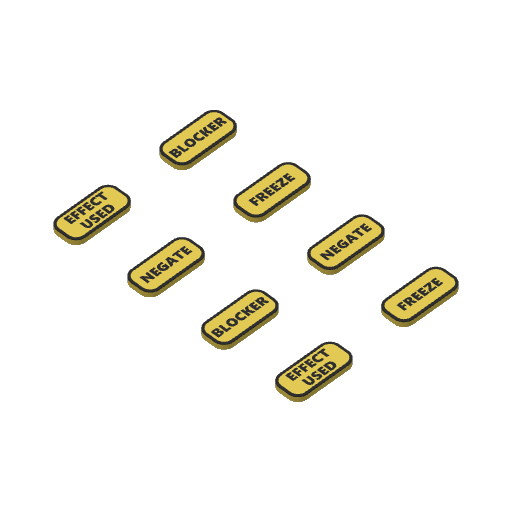
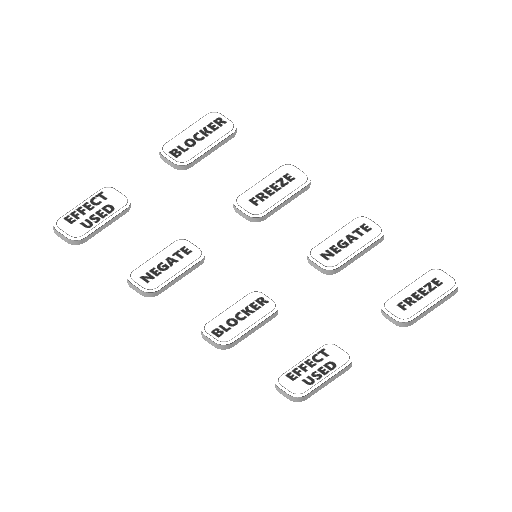
fix: tint only deck box model parts

diff --git a/tool/build_deck_box_preview_assets.dart b/tool/build_deck_box_preview_assets.dart
@@ -20,6 +20,7 @@ void main(List<String> arguments) {
     return;
   }
 
+  image.Image? tokenPreview;
   for (var plate = 1; plate <= 7; plate++) {
     final source = File('${sourceDirectory.path}/plate_$plate.png');
     if (!source.existsSync()) {
@@ -27,16 +28,20 @@ void main(List<String> arguments) {
       exitCode = 66;
       return;
     }
-    source.copySync('${outputDirectory.path}/plate_$plate.png');
+    final decoded = image.decodePng(source.readAsBytesSync());
+    if (decoded == null) {
+      stderr.writeln('Nao foi possivel decodificar ${source.path}.');
+      exitCode = 65;
+      return;
+    }
+    final transparent = _removeBlackBackground(decoded);
+    File(
+      '${outputDirectory.path}/plate_$plate.png',
+    ).writeAsBytesSync(image.encodePng(_grayscaleForTint(transparent)));
+    if (plate == 3) tokenPreview = transparent;
   }
 
-  final tokenSource = File('${sourceDirectory.path}/plate_3.png');
-  final decoded = image.decodePng(tokenSource.readAsBytesSync());
-  if (decoded == null) {
-    stderr.writeln('Nao foi possivel decodificar ${tokenSource.path}.');
-    exitCode = 65;
-    return;
-  }
+  final decoded = tokenPreview!;
 
   final body = image.Image(
     width: decoded.width,
@@ -75,13 +80,108 @@ void main(List<String> arguments) {
 
   File(
     '${outputDirectory.path}/plate_3_body.png',
-  ).writeAsBytesSync(image.encodePng(body));
+  ).writeAsBytesSync(image.encodePng(_grayscaleForTint(body)));
   File(
     '${outputDirectory.path}/plate_3_detail.png',
-  ).writeAsBytesSync(image.encodePng(detail));
+  ).writeAsBytesSync(image.encodePng(_grayscaleForTint(detail)));
 
   stdout.writeln(
     'Previews originais e camadas das fichas gerados em '
     '${outputDirectory.path}.',
   );
+}
+
+image.Image _removeBlackBackground(image.Image source) {
+  final width = source.width;
+  final height = source.height;
+  final background = List<bool>.filled(width * height, false);
+  final queue = <int>[];
+
+  void enqueue(int x, int y) {
+    final index = y * width + x;
+    if (background[index]) return;
+    final pixel = source.getPixel(x, y);
+    final maximum = [
+      pixel.r.toDouble(),
+      pixel.g.toDouble(),
+      pixel.b.toDouble(),
+    ].reduce((a, b) => a > b ? a : b);
+    if (maximum > 72) return;
+    background[index] = true;
+    queue.add(index);
+  }
+
+  for (var x = 0; x < width; x++) {
+    enqueue(x, 0);
+    enqueue(x, height - 1);
+  }
+  for (var y = 0; y < height; y++) {
+    enqueue(0, y);
+    enqueue(width - 1, y);
+  }
+
+  var cursor = 0;
+  while (cursor < queue.length) {
+    final index = queue[cursor++];
+    final x = index % width;
+    final y = index ~/ width;
+    if (x > 0) enqueue(x - 1, y);
+    if (x + 1 < width) enqueue(x + 1, y);
+    if (y > 0) enqueue(x, y - 1);
+    if (y + 1 < height) enqueue(x, y + 1);
+  }
+
+  final output = image.Image(width: width, height: height, numChannels: 4);
+  for (final pixel in source) {
+    final red = pixel.r.toDouble();
+    final green = pixel.g.toDouble();
+    final blue = pixel.b.toDouble();
+    final alpha = pixel.a.toDouble();
+    final index = pixel.y * width + pixel.x;
+    output.setPixelRgba(
+      pixel.x,
+      pixel.y,
+      red,
+      green,
+      blue,
+      background[index] ? 0 : alpha,
+    );
+  }
+  return output;
+}
+
+image.Image _grayscaleForTint(image.Image source) {
+  var maximumLuminance = 1.0;
+  for (final pixel in source) {
+    if (pixel.a == 0) continue;
+    final luminance =
+        pixel.r.toDouble() * 0.2126 +
+        pixel.g.toDouble() * 0.7152 +
+        pixel.b.toDouble() * 0.0722;
+    if (luminance > maximumLuminance) maximumLuminance = luminance;
+  }
+
+  final output = image.Image(
+    width: source.width,
+    height: source.height,
+    numChannels: 4,
+  );
+  for (final pixel in source) {
+    final alpha = pixel.a.toDouble();
+    if (alpha == 0) continue;
+    final luminance =
+        pixel.r.toDouble() * 0.2126 +
+        pixel.g.toDouble() * 0.7152 +
+        pixel.b.toDouble() * 0.0722;
+    final normalized = (luminance / maximumLuminance * 255).clamp(0, 255);
+    output.setPixelRgba(
+      pixel.x,
+      pixel.y,
+      normalized,
+      normalized,
+      normalized,
+      alpha,
+    );
+  }
+  return output;
 }

diff --git a/test/products_screen_test.dart b/test/products_screen_test.dart
@@ -1,8 +1,35 @@
+import 'package:flutter/services.dart';
 import 'package:flutter/material.dart';
 import 'package:flutter_test/flutter_test.dart';
+import 'package:image/image.dart' as image;
 import 'package:optcg_manager/features/products/products_screen.dart';
 
 void main() {
+  TestWidgetsFlutterBinding.ensureInitialized();
+
+  test('original model previews keep their backgrounds transparent', () async {
+    const assets = [
+      'plate_1.png',
+      'plate_2.png',
+      'plate_3.png',
+      'plate_3_body.png',
+      'plate_3_detail.png',
+      'plate_4.png',
+      'plate_5.png',
+      'plate_6.png',
+      'plate_7.png',
+    ];
+    for (final filename in assets) {
+      final data = await rootBundle.load(
+        'assets/products/deck_box/model_parts/$filename',
+      );
+      final decoded = image.decodePng(data.buffer.asUint8List());
+      expect(decoded, isNotNull, reason: filename);
+      expect(decoded!.getPixel(0, 0).a, 0, reason: filename);
+      expect(decoded.any((pixel) => pixel.a > 0), isTrue, reason: filename);
+    }
+  });
+
   testWidgets('product configurator exposes every customizable group', (
     tester,
   ) async {
@@ -45,5 +72,32 @@ void main() {
       findsOneWidget,
     );
     expect(find.text('Montada'), findsNothing);
+  });
+
+  testWidgets('selecting a color updates the piece tint only', (tester) async {
+    await tester.binding.setSurfaceSize(const Size(1440, 1400));
+    addTearDown(() => tester.binding.setSurfaceSize(null));
+
+    await tester.pumpWidget(const MaterialApp(home: ProductsScreen()));
+    await tester.pumpAndSettle();
+
+    final dropdowns = find.byWidgetPredicate(
+      (widget) => widget is DropdownButton,
+    );
+    await tester.tap(dropdowns.first);
+    await tester.pumpAndSettle();
+    await tester.tap(find.text('Vermelho').last);
+    await tester.pumpAndSettle();
+
+    final bodyModel = find.byKey(const ValueKey('model-part-plate_4.png'));
+    final filterFinder = find.descendant(
+      of: bodyModel,
+      matching: find.byType(ColorFiltered),
+    );
+    final filter = tester.widget<ColorFiltered>(filterFinder);
+    expect(
+      filter.colorFilter.toString(),
+      const ColorFilter.mode(Color(0xFFC93832), BlendMode.modulate).toString(),
+    );
   });
 }

diff --git a/lib/features/products/products_screen.dart b/lib/features/products/products_screen.dart
@@ -501,7 +501,7 @@ class _TintedModelAsset extends StatelessWidget {
   @override
   Widget build(BuildContext context) {
     return ColorFiltered(
-      colorFilter: ColorFilter.mode(color, BlendMode.color),
+      colorFilter: ColorFilter.mode(color, BlendMode.modulate),
       child: Image.asset(
         asset,
         fit: BoxFit.contain,

diff --git a/AGENTS.md b/AGENTS.md
@@ -726,3 +726,18 @@ git diff --stat
 - Deploy Vercel de producao
   `dpl_DicH6VP7w6gTzTJE68meY81NY7Z6`, status READY no alias
   `https://optcgbh.vercel.app`.
+
+### 24/07/2026 - Correcao da recoloracao das pecas 3MF
+
+- Foi identificado que os previews do Bambu Studio possuíam um fundo escuro
+  opaco e que o modo de mistura anterior recoloria toda a imagem.
+- O gerador de assets agora remove apenas o fundo conectado ao contorno,
+  mantendo escrita escura, sombras, furos e recortes internos das geometrias.
+- Cada peça e cada camada das fichas e convertida para uma mascara de
+  luminosidade com transparencia real.
+- A interface passou a usar `BlendMode.modulate`, aplicando a cor somente nos
+  pixels da peça e preservando o painel de fundo da pagina.
+- Foi adicionado teste de regressao que decodifica os nove PNGs, confirma
+  transparencia no fundo e valida a troca do corpo externo para vermelho.
+- Validacoes aprovadas: 62 testes Flutter, `flutter analyze`, build web e E2E
+  visual local sem erros.
